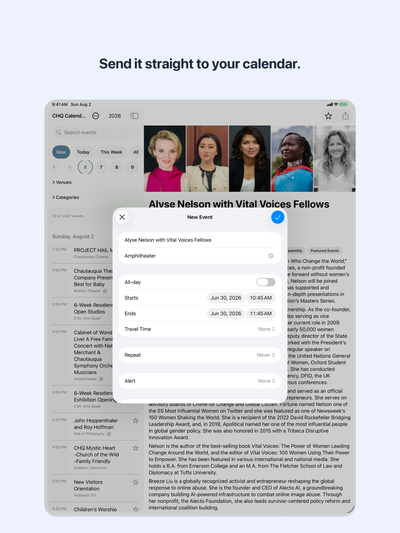
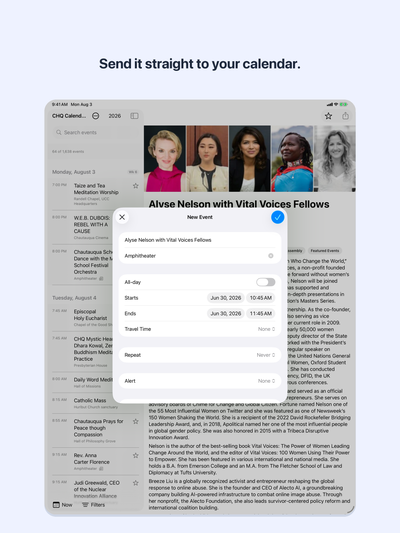
chore(ios): rewire -uitest-show-filters, regenerate App Store assets
The hook expanded FilterBarView's Venues panel, which this branch
deletes. Left alone the capture script would still have succeeded and
simply photographed the wrong screen, so it now presents the filter
sheet instead (EventListView.presentFilterSheetIfNeeded, wired to both
onAppear and onChange to catch a warm-cache-already-true flag and a
cold-start flag flip).

Regenerates screenshots and the manifest for both devices (iphone-6.9,
ipad-13); every regenerated shot was reviewed by hand and confirmed to
show the current bottom-bar-plus-sheets chrome, not the deleted
four-row filter bar. check-screenshots.py's known false positive on
02-filters (chip-cloud rows reading as an alert box) recurred on both
devices and was visually verified as the correct FilterSheet content.

Also updates listing-fields.json: "Jump between weeks with the week
strip" named a view (WeekStripView) that no longer exists post-redesign;
week selection now lives in the Dates sheet's week grid, so the bullet
now says "Jump to any week from the Dates sheet." Every other
description claim was re-checked against FilterSheet.swift,
EventListView.swift, and the reviewed screenshots and still holds.

Claude-Session: https://claude.ai/code/session_01Ybf1c3FYWkrDce9Afpsnei

diff --git a/ios/ChqCalendar/Features/Calendar/EventListView.swift b/ios/ChqCalendar/Features/Calendar/EventListView.swift
@@ -50,7 +50,28 @@ struct EventListView: View {
                 case .filters: FilterSheet(model: model)
                 }
             }
+            #if DEBUG
+            .onAppear(perform: presentFilterSheetIfNeeded)
+            .onChange(of: model.uiTestShowFilters) { _, _ in presentFilterSheetIfNeeded() }
+            #endif
     }
+
+    #if DEBUG
+    // MARK: UI-test hooks (DEBUG only)
+
+    /// `-uitest-show-filters` used to expand `FilterBarView`'s Venues panel.
+    /// That view is gone, so the equivalent "show me the filter UI" state is
+    /// now the filter sheet. Both `onAppear` (flag already true when this
+    /// view mounts, e.g. a warm cache where `start()` finished before the
+    /// view appeared) and `onChange` (view mounted before `start()` flipped
+    /// the flag, e.g. a cold launch) are needed to catch either ordering.
+    private func presentFilterSheetIfNeeded() {
+        if model.uiTestShowFilters {
+            model.uiTestShowFilters = false
+            activeSheet = .filters
+        }
+    }
+    #endif
 
     @ViewBuilder
     private var content: some View {

diff --git a/ios/ChqCalendar/App/AppModel.swift b/ios/ChqCalendar/App/AppModel.swift
@@ -551,10 +551,9 @@ final class AppModel {
     /// builds.
 
     /// Set by `CalendarView` on launch when `-uitest-show-filters` is
-    /// present. Its consumer — the four-row `FilterBarView` — is gone; the
-    /// flag is deliberately kept for the follow-up task that rewires it to
-    /// present `FilterSheet` from `EventListView`, so nothing reads it right
-    /// now.
+    /// present. Its original consumer — the four-row `FilterBarView` — is
+    /// gone; it is now consumed by `EventListView`, which presents
+    /// `FilterSheet` (and resets the flag) on `onAppear`/`onChange`.
     var uiTestShowFilters = false
 
     /// Set by `CalendarView` on launch when `-uitest-show-add-to-calendar`
